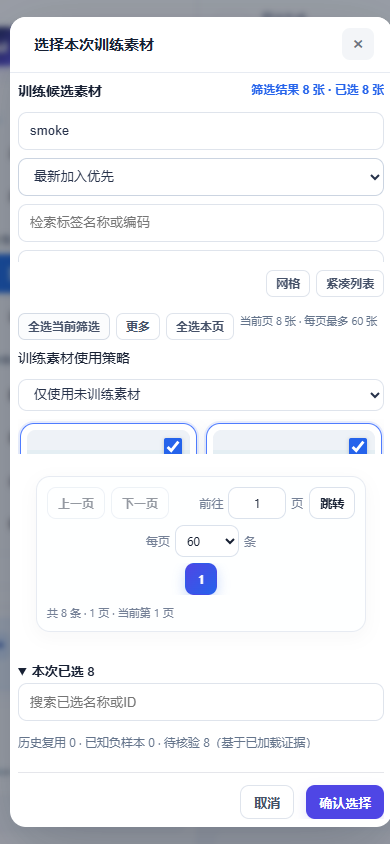
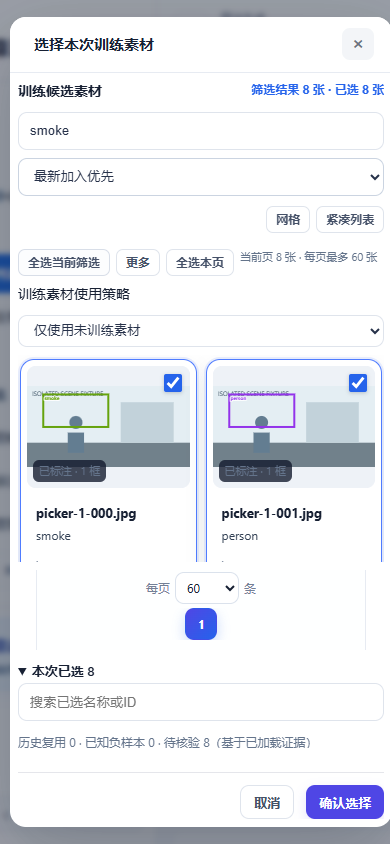
fix(ui): keep picker images and confirmation visible on mobile

diff --git a/static/training-create-modal.css b/static/training-create-modal.css
@@ -125,3 +125,6 @@
 .train-v3-picker.server-paged .train-v3-advanced{margin-top:12px}.train-v3-picker.server-paged .train-v3-advanced>summary{padding:8px 0;cursor:pointer;font-weight:600}
 @media(min-width:761px) and (max-width:1180px){.train-v3-picker.server-paged .train-v3-workspace{grid-template-columns:170px minmax(0,1fr) 170px!important}}
 @media(max-width:760px){.train-v3-picker.server-paged .train-v3-selected{flex:none;border:0;padding:0;max-height:100px}.train-v3-picker.server-paged .train-v3-selected>div{max-height:65px;overflow:auto}.train-v3-picker.server-paged .train-v3-selected>summary{padding:4px 0}}
+
+/* Narrow workbench keeps a useful picture viewport; optional controls scroll locally. */
+@media(max-width:760px){.train-v3-picker.server-paged .train-v3-filters{max-height:86px}.train-v3-picker.server-paged #trV3Pager{max-height:80px;overflow:auto;flex:none}.train-v3-picker.server-paged #trV3Pager .platform-pagination{padding:6px;margin:0;box-shadow:none}.train-v3-picker.server-paged #trV3Pager .platform-pagination__controls{gap:4px}.train-v3-picker.server-paged .train-v3-selected{max-height:90px}}
